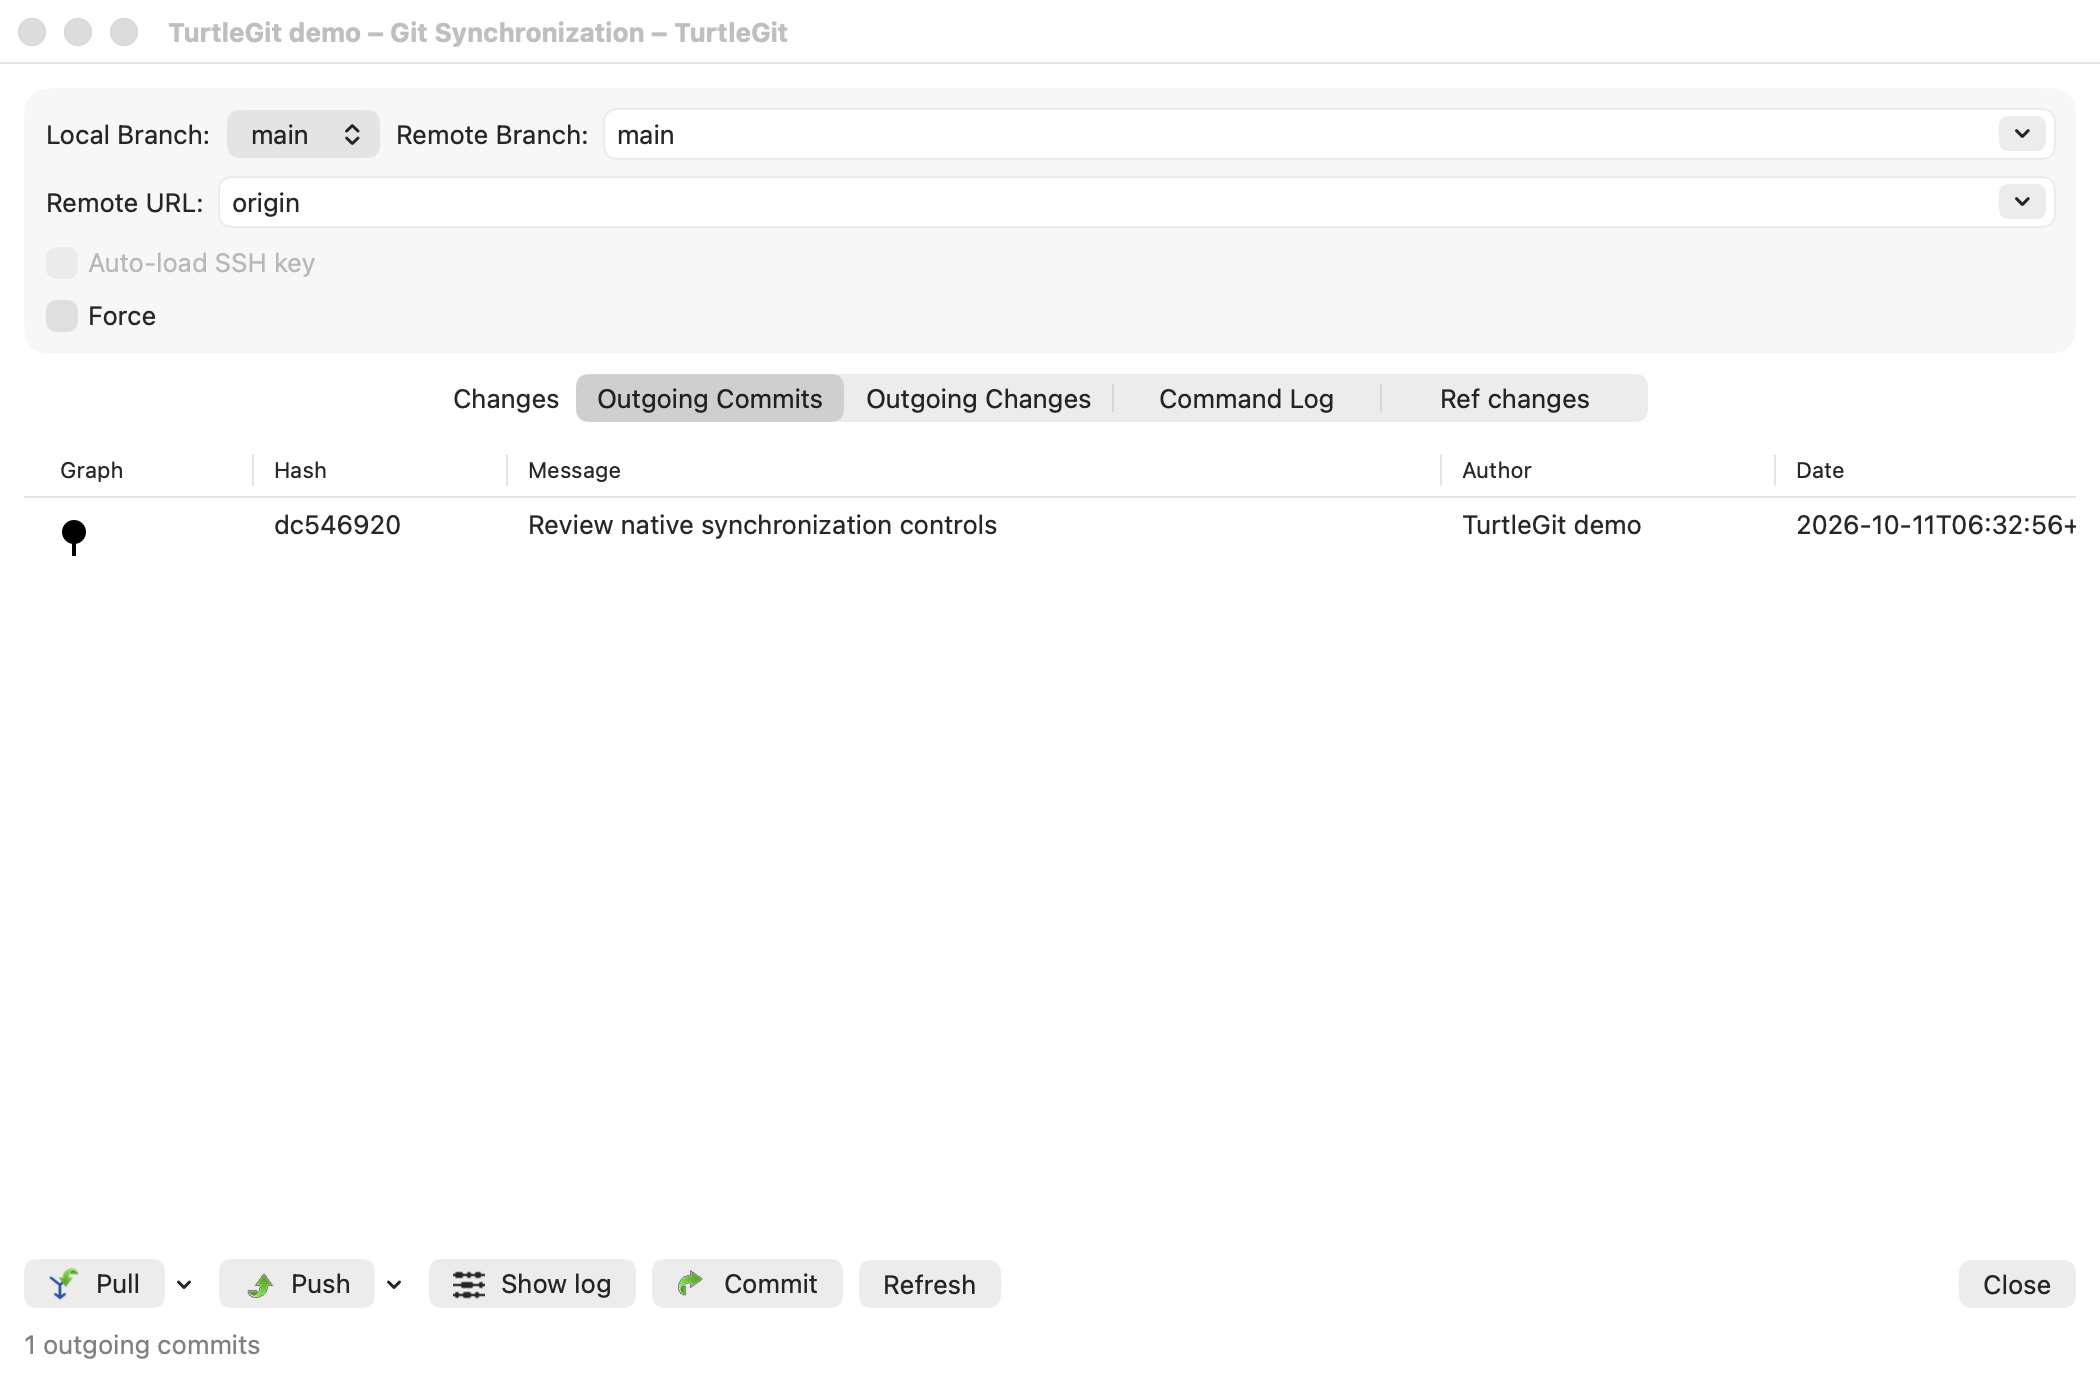
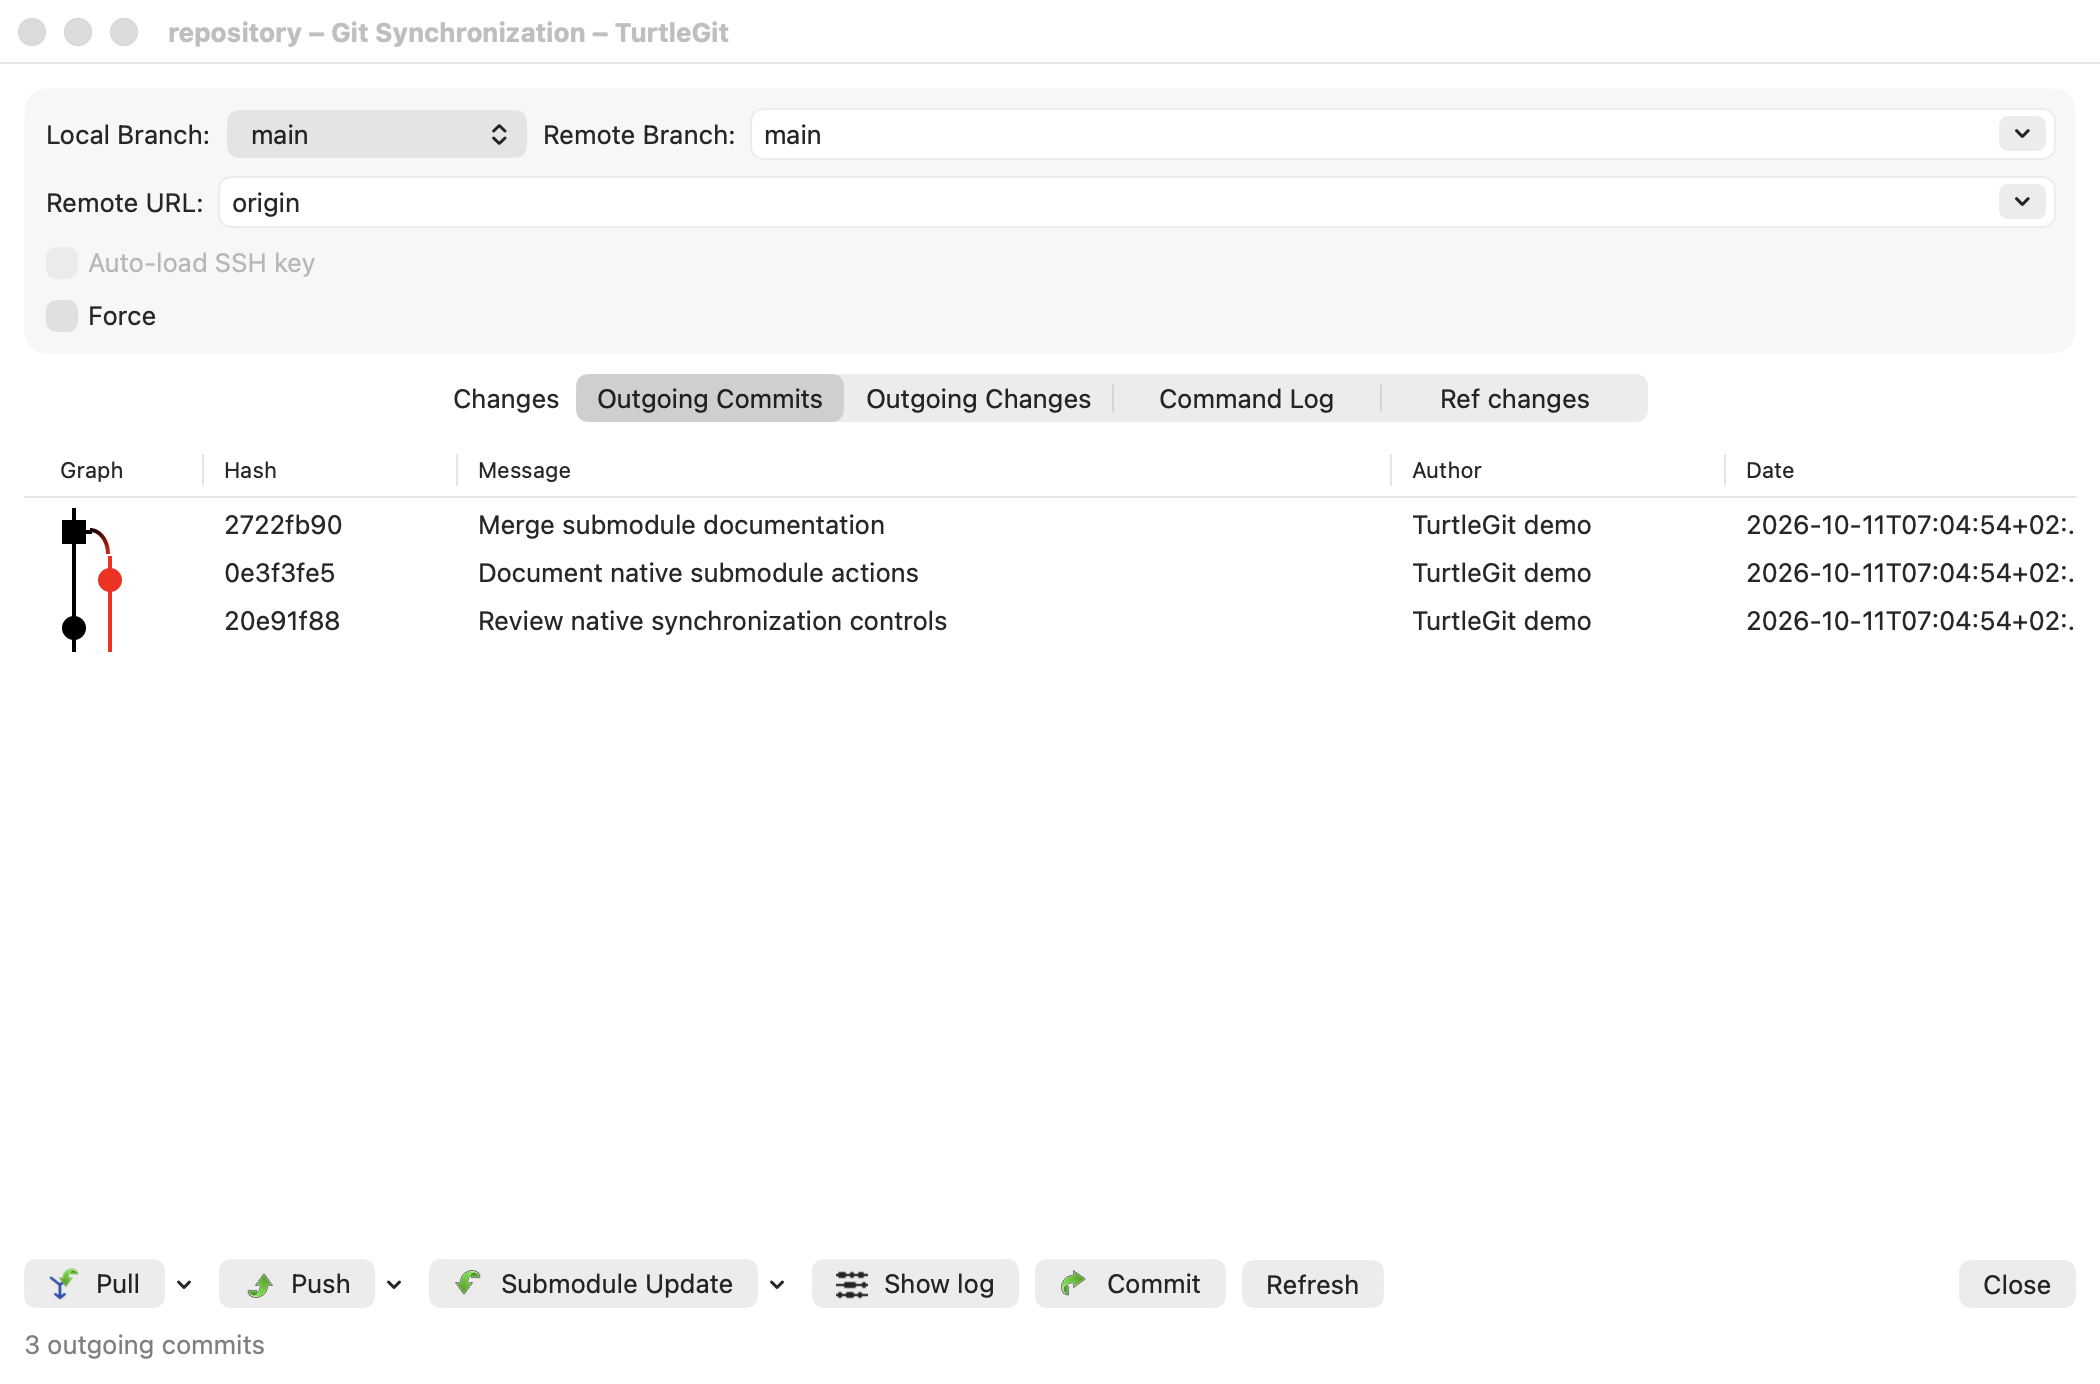
Publish Sync Submodule lifecycle evidence and updated theme captures

diff --git a/docs/site/index.html b/docs/site/index.html
@@ -29,8 +29,8 @@
     <figure><a href="assets/merge-abort-reset-failed-light.png"><img src="assets/merge-abort-reset-failed-light.png" alt="Native light Reset progress showing a real Git index-lock diagnostic, red Git exit-code status, original green Retry icon and Close." width="1520" height="840" loading="lazy"></a><figcaption>A real Git lock failure deliberately produced in the disposable sample repository. Native keyboard routing, ownership, cancellation and retries pass with system and packaged Git. <a href="@@REPOSITORY_URL@@/blob/main/docs/MERGE-PARITY.md">Verification and remaining work →</a></figcaption></figure>
     <figure><a href="assets/merge-abort-reset-failed-dark.png"><img src="assets/merge-abort-reset-failed-dark.png" alt="The same actual Git reset failure in dark appearance with readable diagnostics and colored status and icon." width="1520" height="840" loading="lazy"></a><figcaption>Dark Reset progress with styled diagnostics. Animation, other progress options, factory entry and signed acceptance remain under review.</figcaption></figure>
     <h2>Git Synchronization</h2>
-    <p>Synchronization now has native outgoing and incoming history with the graph before the list, changed-file comparisons, reference changes and bounded command output. Pull owns separate branch-switch progress; Fetch &amp; Rebase offers the original Yes/No and Merge/Rebase/Abort choices. Hold Shift when choosing Pull or Fetch to open their full native options. Ordinary Pull/Fetch refreshes results on return. Full-options Rebase now uses an owned handoff before refreshing; its broader completion actions remain under review. Compare Tags now has a dedicated six-column tab with sorting, original-icon menus, confirmed tag deletion and owned loading/command progress. Push, Push tags and Push notes now have native split actions; Shift+Push opens owned full options and progress. Project hooks, remaining controls, visual matching and signed acceptance are still in progress. <a href="@@REPOSITORY_URL@@/blob/main/docs/SYNCHRONIZATION-PARITY.md">Source comparison and verification →</a></p>
-    <figure><a href="assets/git-synchronization-light.png"><img src="assets/git-synchronization-light.png" alt="Native light Git Synchronization window with branch and remote fields, graph before outgoing commits, original command icons and Pull/Push split buttons." width="2100" height="1384" loading="lazy"></a><figcaption>Actual native window, 11 October 2026, from a disposable sample repository. Push, Push tags and Push notes are implemented; other source controls, columns and full visual parity remain in progress.</figcaption></figure>
+    <p>Synchronization now has native outgoing and incoming history with the graph before the list, changed-file comparisons, reference changes and bounded command output. Pull owns separate branch-switch progress; Fetch &amp; Rebase offers the original Yes/No and Merge/Rebase/Abort choices. Hold Shift when choosing Pull or Fetch to open their full native options. Ordinary Pull/Fetch refreshes results on return. Full-options Rebase now uses an owned handoff before refreshing; its broader completion actions remain under review. Compare Tags now has a dedicated six-column tab with sorting, original-icon menus, confirmed tag deletion and owned loading/command progress. Push, Push tags and Push notes now have native split actions; Shift+Push opens owned full options and progress. Submodule Update, Init and Sync have source command variants; Shift opens their standalone dialogs. Project hooks, remaining controls, visual matching and signed acceptance are still in progress. <a href="@@REPOSITORY_URL@@/blob/main/docs/SYNCHRONIZATION-PARITY.md">Source comparison and verification →</a></p>
+    <figure><a href="assets/git-synchronization-light.png"><img src="assets/git-synchronization-light.png" alt="Native light Git Synchronization window with branch and remote fields, graph before outgoing commits, original command icons and Pull/Push/Submodule split buttons." width="2100" height="1384" loading="lazy"></a><figcaption>Actual native window, 11 October 2026, from a disposable sample repository. Pull, Push and Submodule split actions, with a compact colored merge graph. Other source controls, columns and full visual parity remain in progress.</figcaption></figure>
     <figure><a href="assets/git-synchronization-dark.png"><img src="assets/git-synchronization-dark.png" alt="The same native Synchronization window in dark mode, preserving colored Pull, Push and Commit icons." width="2100" height="1384" loading="lazy"></a><figcaption>Dark appearance. Both themes were also inspected at the minimum window size; the metadata table still scrolls horizontally for its later columns.</figcaption></figure>
     <h2>Choose the Log walk order</h2>
     <p>Click a revision-table column header to open Log commit ordering. Choose Git’s chronological default, topology, committer-date or author-date order; OK saves the choice and refreshes Log while retaining commit selection. Cancel preserves the previous setting. <a href="@@REPOSITORY_URL@@/blob/main/docs/LOG-ORDERING-PARITY.md">Ordering implementation and source audit →</a></p>

diff --git a/README.md b/README.md
@@ -19,7 +19,7 @@ macOS 13.
 | Commit | Checked-file commits, optional staging, right-hand partial-staging window, amend, author/date controls, Commit / ReCommit / Commit & Push | Complete upstream controls, hook/editor/signing interactions and physical UI acceptance across all routes |
 | History | Log with revision graph before the list, revision/file menus, Blame, Reflog, Browse References, references containing a commit, four Log ordering modes, notes and statistics | Complete upstream views, menus and behavior; see individual parity documents |
 | Repository workflows | Clone/Create Repository, status, branch/tag, Switch, Fetch/Pull/Push, merge, Rebase, Stash, reset, patches, export, Submodule Add/Update/Sync and worktrees | Each workflow has remaining source/UI/sandbox checks; a working Git operation alone does not establish parity |
-| Synchronization | Outgoing/incoming graph and files, reference changes, Pull/Fetch/Push variants, separate checkout/merge progress, Fetch & Rebase choices, owned Shift full options and a six-column Compare Tags tab with tag actions | Project hooks, remaining controls, complete visual and signed acceptance; [source audit](docs/SYNCHRONIZATION-PARITY.md) |
+| Synchronization | Outgoing/incoming graph and files, reference changes, Pull/Fetch/Push variants, separate checkout/merge progress, Fetch & Rebase choices, owned Shift full options, a six-column Compare Tags tab with tag actions and Submodule Update/Init/Sync split commands | Project hooks, remaining controls, complete visual and signed acceptance; [source audit](docs/SYNCHRONIZATION-PARITY.md) |
 | Remote settings | Native remote list, URL/Push URL, Rename/Add New-Save/Remove, tag policy, Push Default and three-state Prune; source prompts and Browse References entry | Native key selection and Clone/Fetch/Pull/Push auto-load exist; remaining SSH consumers, bundled OpenSSH, complete settings tree and physical/signed acceptance; legacy PuTTY keys are preserved for Windows interoperability |
 | Comparison | Standalone Load Images, colored unified diff, two-file text comparison, native image panes with zoom/linked pan/alpha and XOR overlay, frame/page controls and playback, configurable transparency backgrounds and local Dark Mode, three-pane image conflict selection, and three-pane text conflict editor | Full upstream formats, format-specific animation and broader conflict controls, encodings, commands and layout parity |
 | Appearance and icons | Light/dark palettes, original upstream artwork in native menus and status lists | All-dialog visual comparison and signed Finder rendering |

diff --git a/docs/SYNCHRONIZATION-PARITY.md b/docs/SYNCHRONIZATION-PARITY.md
@@ -632,3 +632,34 @@ nine-group native regression, actual standalone Shift child lifetimes and new
 button layout captures remain pending. The published root screenshots retain
 the earlier Push checkpoint. See [verification and limits](qa/synchronization-submodule-native-2026-10-11.json).
 This addition does not certify the whole dialog.
+
+
+## Submodule lifecycle and layout follow-up (October 11, 2026)
+
+The full Synchronization native receiver now passes nine groups on both system
+Git 2.50.1 and packaged Git 2.55.0. In addition to the earlier direct-command
+checks, Shift Init opens an actual standalone Update options controller with
+saved settings, which survives closing Synchronization. Submitting it opens
+actual standalone Update progress and completes successfully. A running
+standalone Sync likewise survives its parent closing; closing its own window
+reaps the Git process and prevents a late completion callback. These are real
+controllers with fixture-injected callbacks/private preferences. The production
+RepositoryModel routing is compiled and inspected, but its complete workspace
+callbacks are not driven end-to-end by this receiver.
+
+After that workflow run, the only application change was presentation of the
+history graph column: it starts compact and expands to fit rendered lane widths.
+Fresh Debug compilation and real native captures cover that change. The capture
+fixture now includes a branch and merge, displaying colored lanes. All four
+captures (light/dark, default/minimum size) were inspected; actions fit and the
+graph is visible. The default-size captures replace the site images. Later
+metadata columns still require horizontal scrolling at smaller widths.
+
+The source screenshot still has action/ref/bug columns, two action rows and
+other controls absent from this partial port. Displayed split menus, physical
+keyboard/VoiceOver interaction and signed sandbox/Finder acceptance remain
+pending. The Core and test hashes match the preceding Submodule checkpoint;
+no new Core/full-suite run is claimed for this lifecycle/presentation follow-up.
+
+At code checkpoint `18a07c1`, both unsigned builds, bundle audits, inventory
+and website checks pass. See [lifecycle and layout verification](qa/synchronization-submodule-lifecycle-2026-10-11.json).
